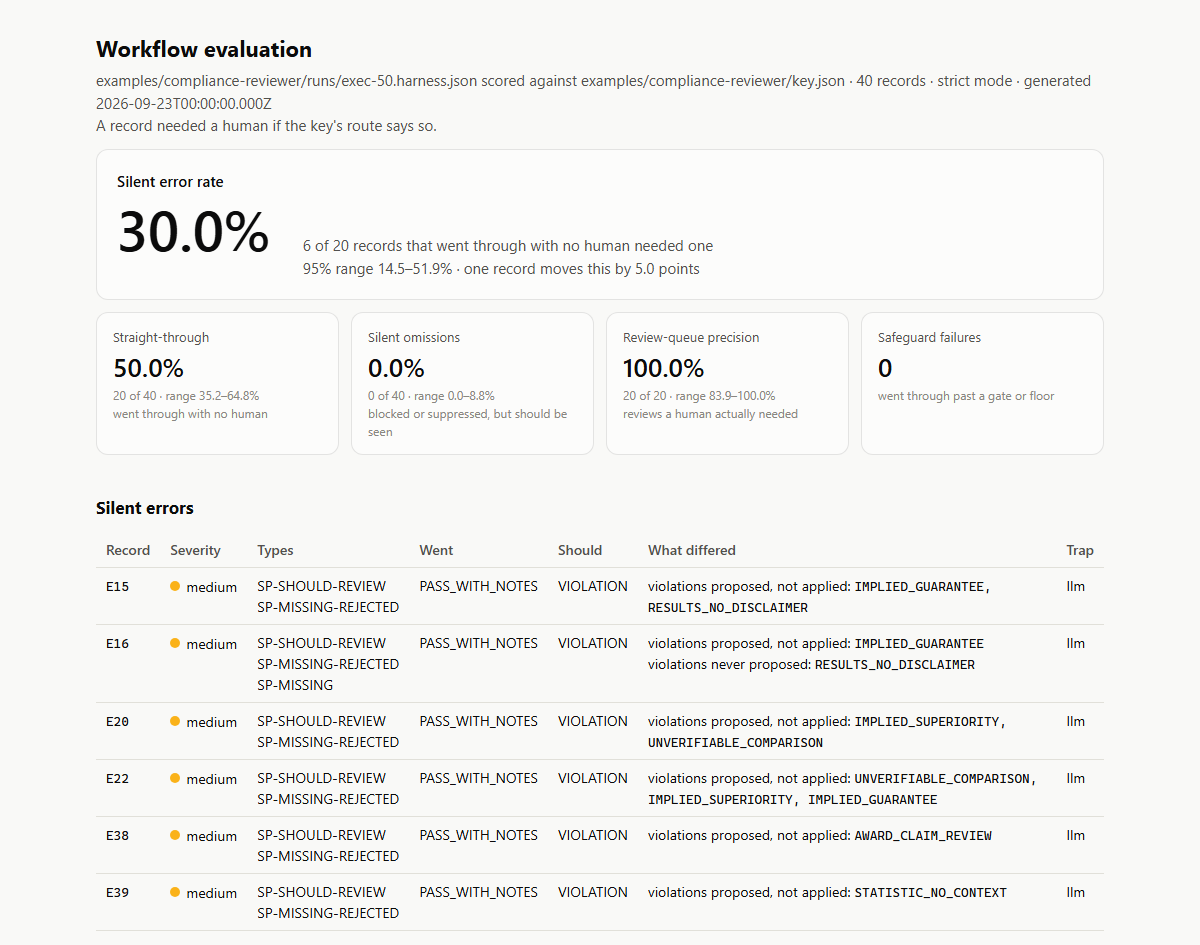
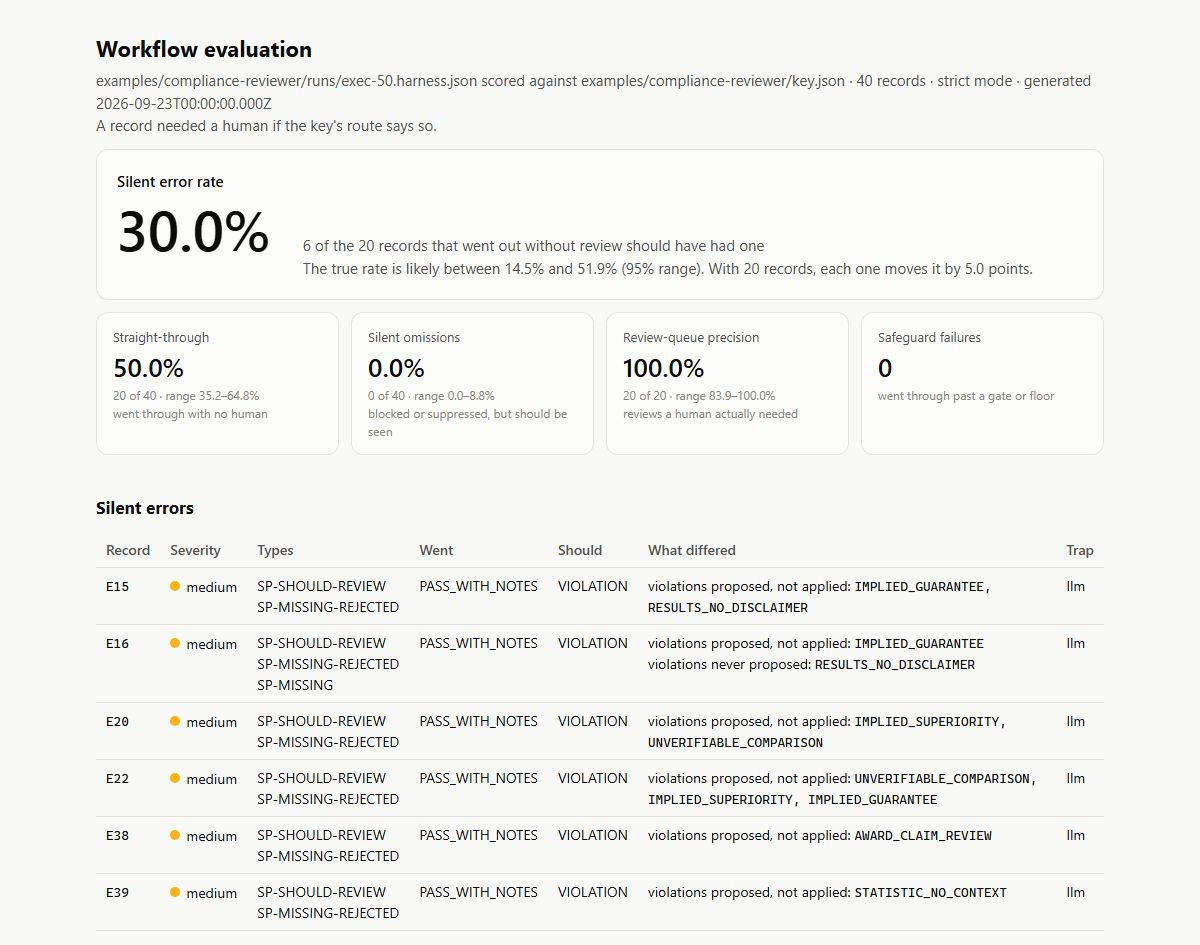
Plainer wording under the report's headline rate
"1 of 15 records that went through with no human needed one / 95% range
1.2-29.8% · one record moves this by 6.7 points" now reads "1 of the 15
records that went out without review should have had one / The true rate
is likely between 1.2% and 29.8% (95% range). With 15 records, each one
moves it by 6.7 points." Also reads right when nothing, or only one
record, went out without review. Sample reports and screenshot rebuilt.

Changed region(s): [[0.2467, 0.2455, 0.8633, 0.3069]]

diff --git a/docs/samples/compliance-before.html b/docs/samples/compliance-before.html
@@ -65,7 +65,7 @@ td.num, th.num { text-align: right; font-variant-numeric: tabular-nums; white-sp
 @media (max-width: 560px) { .hero-value { font-size: 44px; } }
 </style></head><body><main><h1>Workflow evaluation</h1>
 <p class="meta">examples/compliance-reviewer/runs/exec-50.harness.json scored against examples/compliance-reviewer/key.json · 40 records · strict mode · generated 2026-09-23T00:00:00.000Z<br>A record needed a human if the key&#39;s route says so.</p>
-<section class="card hero"><div class="hero-label">Silent error rate</div><div class="hero-value">30.0%</div><div class="hero-note">6 of 20 records that went through with no human needed one<br>95% range 14.5–51.9% · one record moves this by 5.0 points</div></section>
+<section class="card hero"><div class="hero-label">Silent error rate</div><div class="hero-value">30.0%</div><div class="hero-note">6 of the 20 records that went out without review should have had one<br>The true rate is likely between 14.5% and 51.9% (95% range). With 20 records, each one moves it by 5.0 points.</div></section>
 <div class="tiles"><div class="tile"><div class="tile-label">Straight-through</div><div class="tile-value">50.0%</div><div class="tile-note">20 of 40 · range 35.2–64.8%<br>went through with no human</div></div><div class="tile"><div class="tile-label">Silent omissions</div><div class="tile-value">0.0%</div><div class="tile-note">0 of 40 · range 0.0–8.8%<br>blocked or suppressed, but should be seen</div></div><div class="tile"><div class="tile-label">Review-queue precision</div><div class="tile-value">100.0%</div><div class="tile-note">20 of 20 · range 83.9–100.0%<br>reviews a human actually needed</div></div><div class="tile"><div class="tile-label">Safeguard failures</div><div class="tile-value">0</div><div class="tile-note">went through past a gate or floor</div></div></div>
 <h2>Silent errors</h2>
 <div class="table-wrap"><table><thead><tr><th>Record</th><th>Severity</th><th>Types</th><th>Went</th><th>Should</th><th>What differed</th><th>Trap</th></tr></thead><tbody><tr><td><code>E15</code></td><td><span class="sev warning"><span class="sev-dot" aria-hidden="true"></span>medium</span></td><td><span class="type">SP-SHOULD-REVIEW</span><br><span class="type">SP-MISSING-REJECTED</span></td><td>PASS_WITH_NOTES</td><td>VIOLATION</td><td>violations proposed, not applied: <code>IMPLIED_GUARANTEE, RESULTS_NO_DISCLAIMER</code></td><td>llm</td></tr><tr><td><code>E16</code></td><td><span class="sev warning"><span class="sev-dot" aria-hidden="true"></span>medium</span></td><td><span class="type">SP-SHOULD-REVIEW</span><br><span class="type">SP-MISSING-REJECTED</span><br><span class="type">SP-MISSING</span></td><td>PASS_WITH_NOTES</td><td>VIOLATION</td><td>violations proposed, not applied: <code>IMPLIED_GUARANTEE</code><br>violations never proposed: <code>RESULTS_NO_DISCLAIMER</code></td><td>llm</td></tr><tr><td><code>E20</code></td><td><span class="sev warning"><span class="sev-dot" aria-hidden="true"></span>medium</span></td><td><span class="type">SP-SHOULD-REVIEW</span><br><span class="type">SP-MISSING-REJECTED</span></td><td>PASS_WITH_NOTES</td><td>VIOLATION</td><td>violations proposed, not applied: <code>IMPLIED_SUPERIORITY, UNVERIFIABLE_COMPARISON</code></td><td>llm</td></tr><tr><td><code>E22</code></td><td><span class="sev warning"><span class="sev-dot" aria-hidden="true"></span>medium</span></td><td><span class="type">SP-SHOULD-REVIEW</span><br><span class="type">SP-MISSING-REJECTED</span></td><td>PASS_WITH_NOTES</td><td>VIOLATION</td><td>violations proposed, not applied: <code>UNVERIFIABLE_COMPARISON, IMPLIED_SUPERIORITY, IMPLIED_GUARANTEE</code></td><td>llm</td></tr><tr><td><code>E38</code></td><td><span class="sev warning"><span class="sev-dot" aria-hidden="true"></span>medium</span></td><td><span class="type">SP-SHOULD-REVIEW</span><br><span class="type">SP-MISSING-REJECTED</span></td><td>PASS_WITH_NOTES</td><td>VIOLATION</td><td>violations proposed, not applied: <code>AWARD_CLAIM_REVIEW</code></td><td>llm</td></tr><tr><td><code>E39</code></td><td><span class="sev warning"><span class="sev-dot" aria-hidden="true"></span>medium</span></td><td><span class="type">SP-SHOULD-REVIEW</span><br><span class="type">SP-MISSING-REJECTED</span></td><td>PASS_WITH_NOTES</td><td>VIOLATION</td><td>violations proposed, not applied: <code>STATISTIC_NO_CONTEXT</code></td><td>llm</td></tr></tbody></table></div>

diff --git a/docs/samples/compliance-after.html b/docs/samples/compliance-after.html
@@ -65,7 +65,7 @@ td.num, th.num { text-align: right; font-variant-numeric: tabular-nums; white-sp
 @media (max-width: 560px) { .hero-value { font-size: 44px; } }
 </style></head><body><main><h1>Workflow evaluation</h1>
 <p class="meta">examples/compliance-reviewer/runs/exec-59.harness.json scored against examples/compliance-reviewer/key.json · 40 records · strict mode · generated 2026-09-23T00:00:00.000Z<br>A record needed a human if the key&#39;s route says so.</p>
-<section class="card hero"><div class="hero-label">Silent error rate</div><div class="hero-value">6.7%</div><div class="hero-note">1 of 15 records that went through with no human needed one<br>95% range 1.2–29.8% · one record moves this by 6.7 points</div></section>
+<section class="card hero"><div class="hero-label">Silent error rate</div><div class="hero-value">6.7%</div><div class="hero-note">1 of the 15 records that went out without review should have had one<br>The true rate is likely between 1.2% and 29.8% (95% range). With 15 records, each one moves it by 6.7 points.</div></section>
 <div class="tiles"><div class="tile"><div class="tile-label">Straight-through</div><div class="tile-value">37.5%</div><div class="tile-note">15 of 40 · range 24.2–53.0%<br>went through with no human</div></div><div class="tile"><div class="tile-label">Silent omissions</div><div class="tile-value">0.0%</div><div class="tile-note">0 of 40 · range 0.0–8.8%<br>blocked or suppressed, but should be seen</div></div><div class="tile"><div class="tile-label">Review-queue precision</div><div class="tile-value">100.0%</div><div class="tile-note">25 of 25 · range 86.7–100.0%<br>reviews a human actually needed</div></div><div class="tile"><div class="tile-label">Safeguard failures</div><div class="tile-value">0</div><div class="tile-note">went through past a gate or floor</div></div></div>
 <h2>Silent errors</h2>
 <div class="table-wrap"><table><thead><tr><th>Record</th><th>Severity</th><th>Types</th><th>Went</th><th>Should</th><th>What differed</th><th>Trap</th></tr></thead><tbody><tr><td><code>E38</code></td><td><span class="sev warning"><span class="sev-dot" aria-hidden="true"></span>medium</span></td><td><span class="type">SP-SHOULD-REVIEW</span><br><span class="type">SP-MISSING-REJECTED</span></td><td>PASS_WITH_NOTES</td><td>VIOLATION</td><td>violations proposed, not applied: <code>AWARD_CLAIM_REVIEW</code></td><td>llm</td></tr></tbody></table></div>

diff --git a/src/report/html.js b/src/report/html.js
@@ -14,6 +14,17 @@ const ids = list => (list.length ? list.map(esc).join(', ') : '<span class="mute
 
 const SEVERITY_CLASS = { critical: 'critical', high: 'serious', medium: 'warning', low: 'low' };
 const severity = s => '<span class="sev ' + SEVERITY_CLASS[s] + '"><span class="sev-dot" aria-hidden="true"></span>' + esc(s) + '</span>';
+// The two lines under the headline rate: what it counts, then how far to trust it.
+function heroNote(rate, moves) {
+  if (!rate || rate.d === 0) return 'Nothing went out without review, so there is nothing to measure yet.';
+  const what = rate.d === 1
+    ? 'The only record that went out without review ' + (rate.n ? 'should have had one' : 'did not need one')
+    : rate.n + ' of the ' + rate.d + ' records that went out without review should have had one';
+  if (rate.low_pct === null) return what;
+  return what + '<br>The true rate is likely between ' + rate.low_pct.toFixed(1) + '% and ' + rate.high_pct.toFixed(1) + '% (95% range).' +
+    (rate.d > 1 && moves !== null ? ' With ' + rate.d + ' records, each one moves it by ' + moves.toFixed(1) + ' points.' : '');
+}
+
 // An error type such as SP-SHOULD-REVIEW, kept on one line rather than broken at its hyphens.
 const typeTag = t => '<span class="type">' + esc(t) + '</span>';
 
@@ -188,9 +199,7 @@ function renderHtml(results, generatedAt = new Date().toISOString()) {
   // Headline
   const se = r.silent_errors;
   s.push('<section class="card hero"><div class="hero-label">Silent error rate</div><div class="hero-value">' + pct(se.rate) + '</div>' +
-    '<div class="hero-note">' + cnt(se.rate) + ' records that went through with no human needed one' +
-    (rng(se.rate) ? '<br>95% range ' + rng(se.rate) + (se.one_record_moves_pct !== null ? ' · one record moves this by ' + se.one_record_moves_pct.toFixed(1) + ' points' : '') : '') +
-    '</div></section>');
+    '<div class="hero-note">' + heroNote(se.rate, se.one_record_moves_pct) + '</div></section>');
   s.push(tiles(r));
 
   // Silent errors

diff --git a/test/html.test.js b/test/html.test.js
@@ -18,7 +18,8 @@ test('the report is one file: no external scripts, styles, fonts or images', () 
 
 test('the headline and the silent error record are in the report', () => {
   assert.match(html, /<div class="hero-value">50\.0%<\/div>/);
-  assert.match(html, /1 of 2 records that went through/);
+  assert.match(html, /1 of the 2 records that went out without review should have had one/);
+  assert.match(html, /The true rate is likely between 9\.5% and 90\.5% \(95% range\)\. With 2 records, each one moves it by 50\.0 points\./);
   assert.match(html, /<code>R2<\/code>/);
   assert.match(html, /SUBJ-ANTI/);
 });
